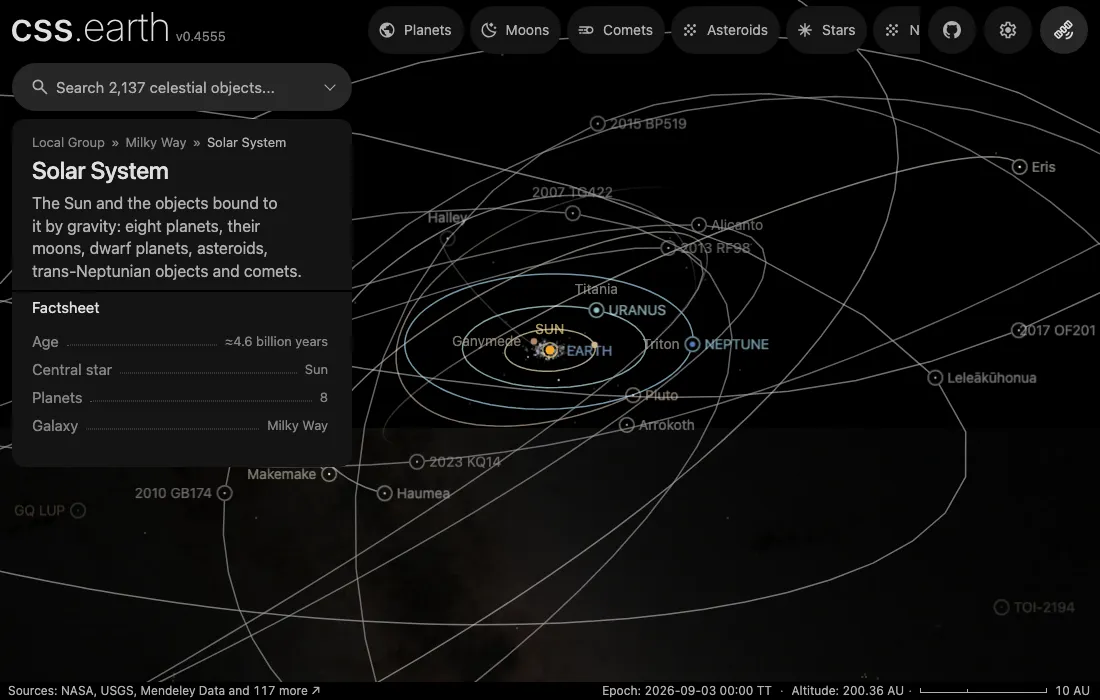
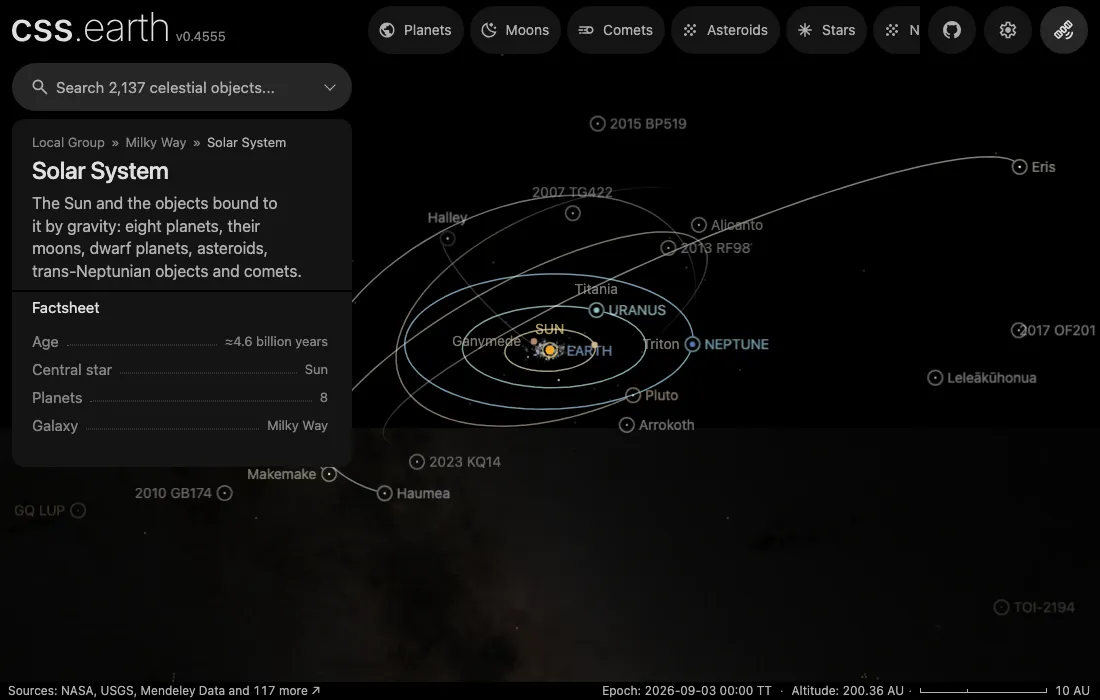
fix(solar-system): keep extreme trans-Neptunian orbits hidden; the objects stay as named dots

diff --git a/tools/objects/prepare-spatial-context.ts b/tools/objects/prepare-spatial-context.ts
@@ -1,7 +1,7 @@
 import { mkdir, readFile, readdir, rm, writeFile } from 'node:fs/promises';
 import { basename, dirname, resolve } from 'node:path';
 import { pathToFileURL, fileURLToPath } from 'node:url';
-import { BODIES, EXOPLANET_IDS, HOSTED_PLANET_IDS, isExtremeTransNeptunian, M_PER_AU, M_PER_KM, SOLAR_EFFECTIVE_TEMPERATURE_K, SOLAR_RADIUS_M, STAR_IDS, isSceneSatellite, sceneSatelliteStateKm, starAstrometry } from '@cssearth/astronomy';
+import { BODIES, EXOPLANET_IDS, HOSTED_PLANET_IDS, M_PER_AU, M_PER_KM, SOLAR_EFFECTIVE_TEMPERATURE_K, SOLAR_RADIUS_M, STAR_IDS, isSceneSatellite, sceneSatelliteStateKm, starAstrometry } from '@cssearth/astronomy';
 import type { StarId } from '@cssearth/astronomy';
 import { parseObjectDescriptor } from '@cssearth/objects';
 import { readCatalog, readPreparedObjects } from '@cssearth/objects/node';
@@ -156,10 +156,8 @@ export async function prepareSpatialContext(options: SpatialContextPreparationOp
     if (radiusM === undefined) throw new TypeError(`World context lacks a physical radius for ${body.id}.`);
     // A star other than the focus is placed, not orbiting: the context carries its position and radius and draws no trajectory.
     // A planet of another star closes its orbit around that star, which makes the star the root of its own planetary system.
-    // An extreme trans-Neptunian object closes its orbit too: the whole ellipse, where it points and how far it reaches, is what
-    // the map shows it for (site/build/prepare/prepare-world-presentation.mts keeps these orbits in the default view).
     const classification = classifications.get(body.id);
-    facts[body.id] = { radiusM, orbitStyle: hostedStarIds.has(body.id) ? 'trail' : hostedIds.has(body.id) ? 'closed' : classification === 'star' || classification === 'black-hole' ? 'none' : planetIds.has(body.id) || classification === 'exoplanet' || isExtremeTransNeptunian(body.id) ? 'closed' : 'trail', classification };
+    facts[body.id] = { radiusM, orbitStyle: hostedStarIds.has(body.id) ? 'trail' : hostedIds.has(body.id) ? 'closed' : classification === 'star' || classification === 'black-hole' ? 'none' : planetIds.has(body.id) || classification === 'exoplanet' ? 'closed' : 'trail', classification };
   }
   // A star measured to be bound to another with no measured orbit carries the pair's centre of mass, weighted by the
   // published masses (as gravitational parameters) at the two prepared positions.

diff --git a/packages/objects/src/registry/object-discovery.test.ts b/packages/objects/src/registry/object-discovery.test.ts
@@ -14,7 +14,7 @@ test('a star is named where there is more to find; every other star is an unname
   assert.deepEqual(hiddenBodies, [], 'an unnamed star is still drawn, and names itself on hover');
 });
 
-test('an extreme trans-Neptunian object stays on the map by its orbit while its page is only an illustration', () => {
+test('an extreme trans-Neptunian object stays on the map as a named dot while its page is only an illustration', () => {
   const illustration = (id: string) => ({ id, classification: 'trans-neptunian', discovery: { featured: false, imagery: false, illustration: true } });
   const objects = [illustration('sedna'), illustration('quaoar')];
   const options = { illustrations: false, defaultFeatures: new Set(['sedna']), orbitFeatures: new Set(['sedna']) };

diff --git a/packages/objects/src/registry/object-discovery.ts b/packages/objects/src/registry/object-discovery.ts
@@ -42,7 +42,8 @@ export function discoveryVisibility(objects: readonly { id: string; classificati
     compact?: boolean;
     /** Bodies of a system: each body that orbits another, and each body something orbits. */
     systemMembers?: ReadonlySet<string>;
-    /** Bodies the map shows by their measured orbit even when their page is only an illustration (extreme trans-Neptunian objects). */
+    /** Bodies the map shows as named dots, placed by their measured orbit, even when their page is only an illustration (extreme
+     * trans-Neptunian objects). */
     orbitFeatures?: ReadonlySet<string> }) {
   const hiddenBodies: string[] = [], hiddenLabels: string[] = [], highlightedBodies: string[] = [];
   for (const object of objects) {

diff --git a/src/objects/asteroid-2012-vp113/README.md b/src/objects/asteroid-2012-vp113/README.md
@@ -19,9 +19,9 @@ The normal grid marks unmapped terrain. Shadows default off. [Measurements](sour
 
 ## On the map
 
-It is an extreme trans-Neptunian object: semimajor axis over 150 au and perihelion beyond 30 au, the definition [de la Fuente Marcos & de la Fuente Marcos (2018)](https://arxiv.org/abs/1809.02571) state. The Solar System map draws the orbits of these objects by default, whatever their page shows.
+It is an extreme trans-Neptunian object: semimajor axis over 150 au and perihelion beyond 30 au, the definition [de la Fuente Marcos & de la Fuente Marcos (2018)](https://arxiv.org/abs/1809.02571) state. The Solar System map shows these objects as named dots by default, whatever their page shows; their orbits stay hidden like other trans-Neptunian orbits and appear on hover.
 
-![The Solar System map at its default view, with the extreme trans-Neptunian orbits drawn](../../../evidence/extreme-tnos/solar-system-map.webp)
+![The Solar System map at its default view, with the extreme trans-Neptunian objects named](../../../evidence/extreme-tnos/solar-system-map.webp)
 
 Captured headless from the development server on 2026-09-28 with this package prepared.
 

diff --git a/src/objects/asteroid-2017-of201/README.md b/src/objects/asteroid-2017-of201/README.md
@@ -19,9 +19,9 @@ The normal grid marks unmapped terrain. Shadows default off. [Measurements](sour
 
 ## On the map
 
-It is an extreme trans-Neptunian object: semimajor axis over 150 au and perihelion beyond 30 au, the definition [de la Fuente Marcos & de la Fuente Marcos (2018)](https://arxiv.org/abs/1809.02571) state. The Solar System map draws the orbits of these objects by default, whatever their page shows.
+It is an extreme trans-Neptunian object: semimajor axis over 150 au and perihelion beyond 30 au, the definition [de la Fuente Marcos & de la Fuente Marcos (2018)](https://arxiv.org/abs/1809.02571) state. The Solar System map shows these objects as named dots by default, whatever their page shows; their orbits stay hidden like other trans-Neptunian orbits and appear on hover.
 
-![The Solar System map at its default view, with the extreme trans-Neptunian orbits drawn](../../../evidence/extreme-tnos/solar-system-map.webp)
+![The Solar System map at its default view, with the extreme trans-Neptunian objects named](../../../evidence/extreme-tnos/solar-system-map.webp)
 
 Captured headless from the development server on 2026-09-28 with this package prepared.
 

diff --git a/src/objects/leleakuhonua/README.md b/src/objects/leleakuhonua/README.md
@@ -19,9 +19,9 @@ The normal grid marks unmapped terrain. Shadows default off. [Measurements](sour
 
 ## On the map
 
-It is an extreme trans-Neptunian object: semimajor axis over 150 au and perihelion beyond 30 au, the definition [de la Fuente Marcos & de la Fuente Marcos (2018)](https://arxiv.org/abs/1809.02571) state. The Solar System map draws the orbits of these objects by default, whatever their page shows.
+It is an extreme trans-Neptunian object: semimajor axis over 150 au and perihelion beyond 30 au, the definition [de la Fuente Marcos & de la Fuente Marcos (2018)](https://arxiv.org/abs/1809.02571) state. The Solar System map shows these objects as named dots by default, whatever their page shows; their orbits stay hidden like other trans-Neptunian orbits and appear on hover.
 
-![The Solar System map at its default view, with the extreme trans-Neptunian orbits drawn](../../../evidence/extreme-tnos/solar-system-map.webp)
+![The Solar System map at its default view, with the extreme trans-Neptunian objects named](../../../evidence/extreme-tnos/solar-system-map.webp)
 
 Captured headless from the development server on 2026-09-28 with this package prepared.
 
